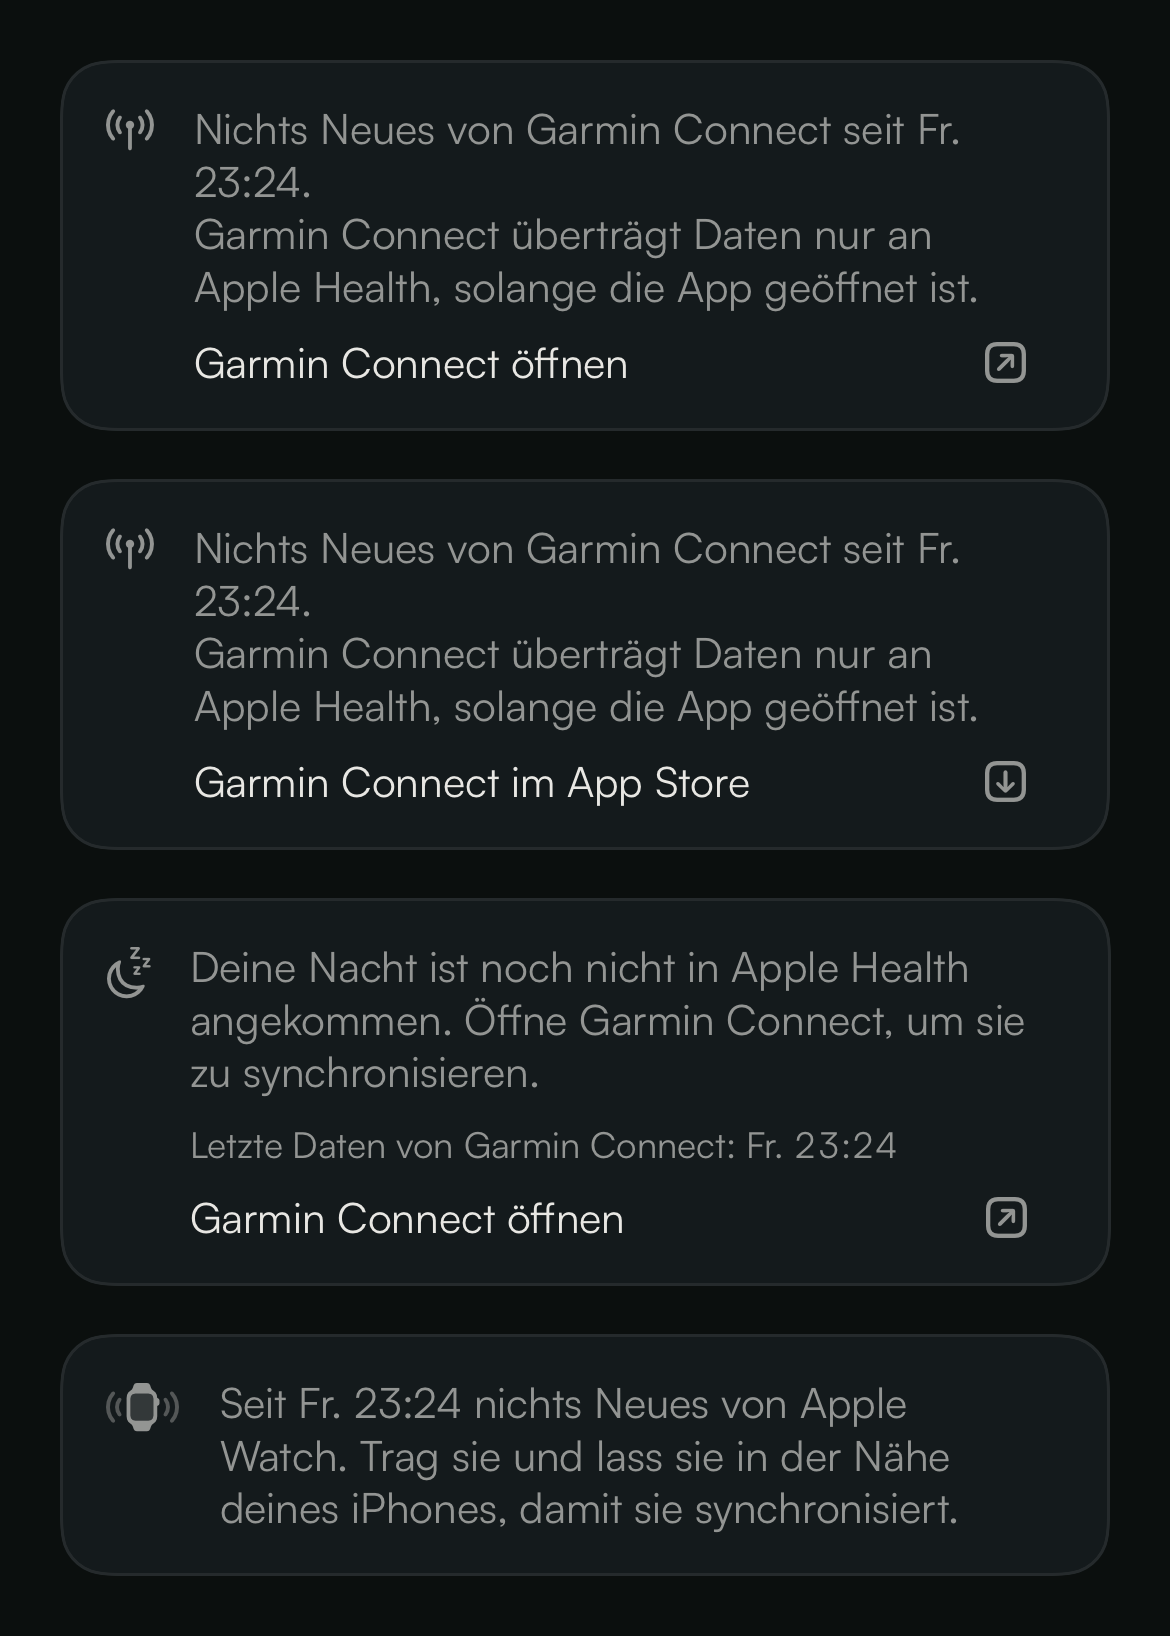
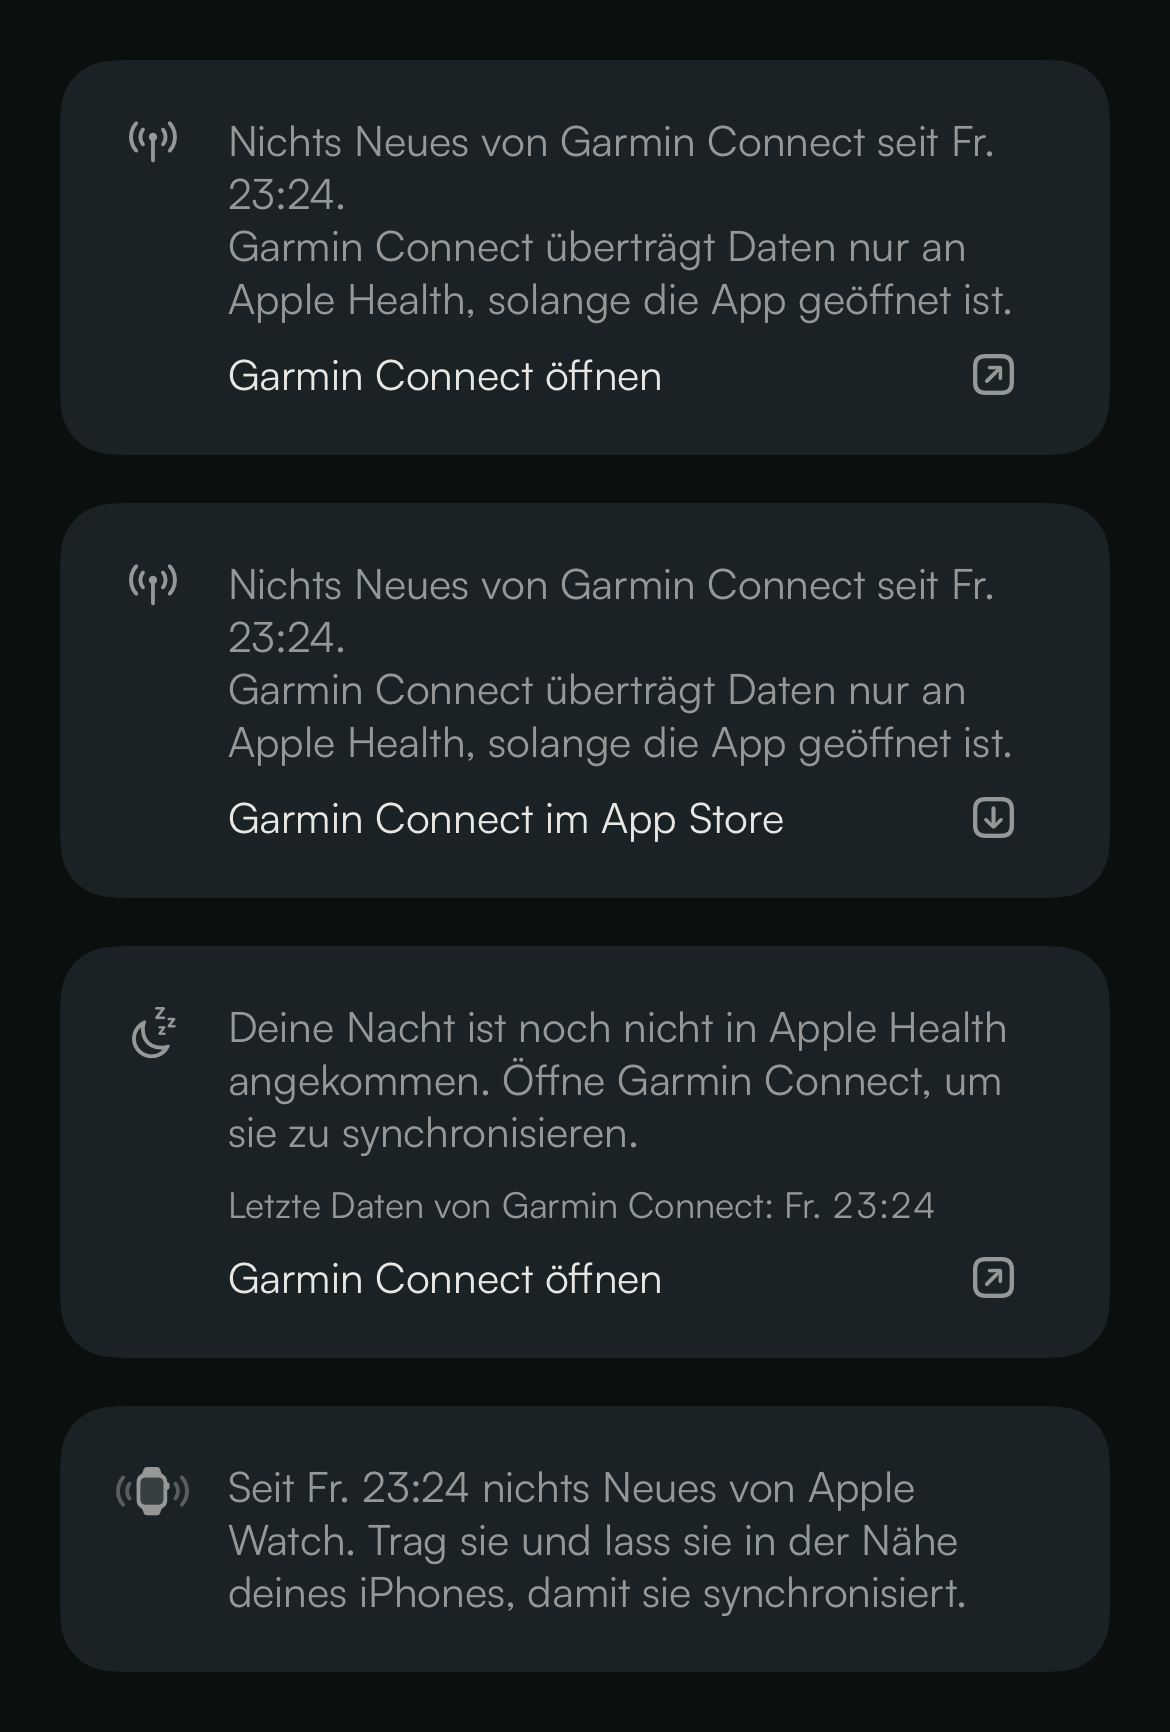
today: the hint card's fallback, chrome and VoiceOver checks (review round 1)
- WatchSyncHint.Action.fallback(accepted:) is the pure "open failed -> store page" rule
  (the view only calls it), unit-tested in both branches; Action.opensApp replaces
  WatchSyncHint.opensApp, which only tests used.
- Pin: every tracker with a scheme has a pinned store page (storeIDs).
- Card chrome as design.md D3.2 (Card's surface, cardRadius, cardPadding, no hairline);
  a fixed, scaled icon column so the text doesn't shift with the glyph.
- The card is rebuilt on each return to the foreground, so canOpenURL is asked again.
- "Leaves RYFT." / "Verlässt RYFT." with a full stop.
- UI tests: the quiet hint (watch scenario) and the night hint each have exactly one
  action button with the store label, and the sentence is static text, not a button.
- A test no longer depends on the host's language (en_US). Shots re-rendered.

diff --git a/Ryft/Features/Today/TodayView.swift b/Ryft/Features/Today/TodayView.swift
@@ -724,14 +724,21 @@ struct WatchSyncHintCard: View {
     @Environment(\.openURL) private var openURL
     @Environment(\.appInstalled) private var appInstalled
     @Environment(\.locale) private var locale
+    @Environment(\.scenePhase) private var scenePhase
     /// 15 pt at the default size, growing with the callout text (as `InlineMessage`'s icon).
     @ScaledMetric(relativeTo: .callout) private var iconSize: CGFloat = 15
+    /// The leading glyph's column: as wide as the widest glyph (the watch with its waves), so the text starts at the same
+    /// place whichever glyph the card shows.
+    @ScaledMetric(relativeTo: .callout) private var iconColumn: CGFloat = 26
+    /// Bumped on each return to the foreground: the card is built again and asks `canOpenURL` again (the user may have
+    /// installed or removed the app meanwhile, often in the App Store page this card opened).
+    @State private var foregrounds = 0
 
     private var identifier: String { hint.isNight ? "today.nightHint" : "today.watchHint" }
 
     var body: some View {
         TimelineView(.periodic(from: .now, by: 60)) { context in
-            // Asked on each render: the app may have been installed or removed since.
+            // Asked on every build of the card (each minute, and each return to the foreground below), never cached.
             if showsAction, let action = hint.action(canOpen: { appInstalled($0) }) {
                 Button { perform(action) } label: { card(now: context.date, action: action) }
                     .buttonStyle(PressableButtonStyle())
@@ -742,6 +749,10 @@ struct WatchSyncHintCard: View {
                 card(now: context.date, action: nil)
             }
         }
+        .id(foregrounds)
+        .onChange(of: scenePhase) { _, phase in
+            if phase == .active { foregrounds &+= 1 }
+        }
         .accessibilityElement(children: .contain)
         .accessibilityIdentifier(identifier)
     }
@@ -751,6 +762,7 @@ struct WatchSyncHintCard: View {
             Image(systemName: hint.systemImage)
                 .font(.system(size: iconSize, weight: .medium))
                 .foregroundStyle(Theme.textSecondary)
+                .frame(width: iconColumn)
                 .padding(.top, 1)
                 .accessibilityHidden(true)
             VStack(alignment: .leading, spacing: 8) {
@@ -773,21 +785,19 @@ struct WatchSyncHintCard: View {
             }
             Spacer(minLength: 0)
         }
-        .padding(14)
+        // `Card`'s surface (design.md §D3.2): no hairline, the surface is the edge.
+        .padding(Theme.Metrics.cardPadding)
         .frame(maxWidth: .infinity, minHeight: 44, alignment: .leading)
-        .background(Theme.surface.opacity(0.6), in: RoundedRectangle(cornerRadius: Theme.Metrics.tileRadius, style: .continuous))
-        .overlay(RoundedRectangle(cornerRadius: Theme.Metrics.tileRadius, style: .continuous)
-            .strokeBorder(Theme.separator, lineWidth: Theme.Metrics.hairline))
-        .contentShape(RoundedRectangle(cornerRadius: Theme.Metrics.tileRadius, style: .continuous))
+        .background(Theme.surface, in: RoundedRectangle(cornerRadius: Theme.Metrics.cardRadius, style: .continuous))
+        .contentShape(RoundedRectangle(cornerRadius: Theme.Metrics.cardRadius, style: .continuous))
     }
 
     /// What VoiceOver reads when the card is a button: the sentence with its age (static text), then the action.
     private func spoken(now: Date, action: WatchSyncHint.Action) -> some View {
-        let opensApp: Bool = { if case .openApp = action { return true } else { return false } }()
-        return VStack {
+        VStack {
             Text(verbatim: [hint.text(now: now, locale: locale), hint.caption(locale: locale)].compactMap { $0 }.joined(separator: "\n"))
             Button { perform(action) } label: { Text(verbatim: hint.title(action)) }
-                .accessibilityHint(opensApp ? Text("Leaves RYFT") : Text("Opens the App Store."))
+                .accessibilityHint(action.opensApp ? Text("Leaves RYFT.") : Text("Opens the App Store."))
                 .accessibilityIdentifier("\(identifier).action")
         }
     }
@@ -796,29 +806,28 @@ struct WatchSyncHintCard: View {
     /// destinations don't look the same. At AX sizes the title wraps and the glyph stays on its first line.
     private func verbRow(_ action: WatchSyncHint.Action) -> some View {
         let title = hint.title(action)
-        let opensApp: Bool = { if case .openApp = action { return true } else { return false } }()
         return HStack(alignment: .firstTextBaseline, spacing: 8) {
             Text(verbatim: title)
                 .font(.ryft(.callout))
                 .foregroundStyle(Theme.textPrimary)
                 .fixedSize(horizontal: false, vertical: true)
             Spacer(minLength: 0)
-            Image(systemName: opensApp ? "arrow.up.forward.app" : "arrow.down.app")
+            Image(systemName: action.opensApp ? "arrow.up.forward.app" : "arrow.down.app")
                 .font(.system(size: iconSize, weight: .medium))
                 .foregroundStyle(Theme.textSecondary)
                 .accessibilityHidden(true)
         }
     }
 
-    /// The app, and its store page if it doesn't open after all (no error: the page shows Open or Get).
+    /// The app, and its store page if it doesn't open after all (`Action.fallback(accepted:)`; no error: the page shows
+    /// Open or Get). Nothing is logged: whether the app opened says whether it's installed (ADR 0012, Privacy).
     private func perform(_ action: WatchSyncHint.Action) {
         switch action {
         case .store(let url):
             openURL(url)
-        case .openApp(let url, let fallback):
-            // Nothing is logged: whether the app opened says whether it's installed (ADR 0012, Privacy).
+        case .openApp(let url, _):
             openURL(url) { accepted in
-                if !accepted, let fallback { openURL(fallback) }
+                if let store = action.fallback(accepted: accepted) { openURL(store) }
             }
         }
     }

diff --git a/RyftUITests/TodayStatesUITests.swift b/RyftUITests/TodayStatesUITests.swift
@@ -78,9 +78,7 @@ final class TodayStatesUITests: XCTestCase {
             "Your night hasn't reached Apple Health yet. Open Garmin Connect to sync it.")).firstMatch
         XCTAssertTrue(sentence.exists, "the sentence and the data's age")
         // Garmin Connect isn't installed on the simulator: canOpenURL says no, so the App Store page.
-        let store = app.buttons["today.nightHint.action"]
-        XCTAssertTrue(store.exists, "the App Store button")
-        XCTAssertEqual(store.label, "Garmin Connect in the App Store")
+        assertHintElements(app, "today.nightHint", sentence: sentence, action: "Garmin Connect in the App Store")
         XCTAssertFalse(app.staticTexts["Scoring your latest data"].exists)
         XCTAssertFalse(app.staticTexts["Scoring your night"].exists)
         XCTAssertFalse(app.staticTexts.containing(NSPredicate(format: "label CONTAINS 'Connect app'")).firstMatch.exists,
@@ -88,6 +86,36 @@ final class TodayStatesUITests: XCTestCase {
         XCTAssertFalse(app.descendants(matching: .any)["today.watchHint"].exists, "one hint, never both")
         XCTAssertFalse(app.staticTexts["Last night hasn't reached RYFT yet."].exists, "the header says what the number is")
         XCTAssertTrue(app.staticTexts["Yesterday's readiness, until last night is scored."].exists)
+    }
+
+    /// A quiet Garmin Connect (14 h): the catalog's sentence on how it syncs replaces "Open the … app" (design.md §D3.4),
+    /// and VoiceOver reads the sentence, then the action (§D3.5).
+    @MainActor
+    func testQuietTrackerHintSaysHowItSyncsThenOffersTheApp() throws {
+        let app = launch("watch")
+        let hint = app.descendants(matching: .any)["today.watchHint"]
+        XCTAssertTrue(hint.waitForExistence(timeout: 15), "the quiet hint")
+        let sentence = app.staticTexts.containing(NSPredicate(
+            format: "label BEGINSWITH 'Nothing new from Garmin Connect since ' AND label CONTAINS %@",
+            "Garmin Connect passes data to Apple Health only while it's open.")).firstMatch
+        XCTAssertTrue(sentence.exists, "the sentence with the catalog's sync sentence")
+        XCTAssertFalse(app.staticTexts.containing(NSPredicate(format: "label CONTAINS 'Open the Garmin Connect app'"))
+                        .firstMatch.exists, "the shipped tail is replaced")
+        // Not installed on the simulator: the App Store page. "Open Garmin Connect" needs the app (a device check).
+        assertHintElements(app, "today.watchHint", sentence: sentence, action: "Garmin Connect in the App Store")
+    }
+
+    /// Two VoiceOver elements: the sentence as static text, never a button; then exactly one button, the action.
+    private func assertHintElements(_ app: XCUIApplication, _ id: String, sentence: XCUIElement, action label: String,
+                                    file: StaticString = #filePath, line: UInt = #line) {
+        let action = app.buttons.matching(identifier: "\(id).action")
+        XCTAssertEqual(action.count, 1, "one action", file: file, line: line)
+        XCTAssertEqual(action.firstMatch.elementType, .button, file: file, line: line)
+        XCTAssertEqual(action.firstMatch.label, label, file: file, line: line)
+        XCTAssertEqual(sentence.elementType, .staticText, file: file, line: line)
+        XCTAssertNotEqual(sentence.identifier, "\(id).action", "the sentence isn't the action", file: file, line: line)
+        XCTAssertFalse(app.buttons.containing(NSPredicate(format: "label == %@", sentence.label)).firstMatch.exists,
+                       "the sentence isn't a button", file: file, line: line)
     }
 
     /// Ten minutes against an estimate of 20 s: "Taking longer than usual · Details", the gauge static, and the

diff --git a/RyftTests/ViewModelTests.swift b/RyftTests/ViewModelTests.swift
@@ -591,7 +591,8 @@ struct TodayNightAndScoringTests {
         #expect(gap == NightGap(name: "Garmin Connect", kind: .app, storeURL: garminStore, newest: at(23, 24, daysAgo: 1),
                                 appURL: URL(string: "garminconnect://")))
         let hint = try #require(TodayStates.watchHint(f))
-        #expect(hint.isNight && hint.source == "Garmin Connect" && hint.opensApp && hint.storeURL == garminStore)
+        #expect(hint.isNight && hint.source == "Garmin Connect" && hint.storeURL == garminStore)
+        #expect(hint.action { _ in false } == garminStore.map(WatchSyncHint.Action.store))
         #expect(hint.systemImage == "moon.zzz")
         #expect(hint.text(now: f.now)
                 == String(localized: "Your night hasn't reached Apple Health yet. Open \("Garmin Connect") to sync it."))
@@ -639,7 +640,7 @@ struct TodayNightAndScoringTests {
         let gap = try #require(TodayStates.nightGap(f))
         #expect(gap.kind == .appleDevice && gap.name == "Tim's Apple Watch" && gap.storeURL == nil)
         let hint = try #require(TodayStates.watchHint(f))
-        #expect(!hint.opensApp)
+        #expect(hint.action { _ in true } == nil)
         #expect(hint.text(now: f.now) == String(
             localized: "Your night hasn't reached Apple Health yet. Keep your Apple Watch near your iPhone so it syncs."))
         // A watch worn this morning: its heart rate is the evidence.
@@ -649,7 +650,7 @@ struct TodayNightAndScoringTests {
     @Test func anUnknownSourceKeepsItsNameAndGetsNoButton() throws {
         let diary = SourceFreshness(source: "Sleep Diary", bundleID: "com.example.sleep", newest: at(23, 0, daysAgo: 1))
         let hint = try #require(TodayStates.watchHint(facts { $0.freshness = [diary] }))
-        #expect(hint.isNight && hint.source == "Sleep Diary" && !hint.opensApp)
+        #expect(hint.isNight && hint.source == "Sleep Diary" && hint.action { _ in true } == nil)
         #expect(hint.text(now: at(9, 12)) == String(localized: "Your night hasn't reached Apple Health yet."))
     }
 
@@ -689,7 +690,7 @@ struct TodayNightAndScoringTests {
         var plain = f
         plain.sourceApps = [:]
         #expect(TodayStates.watchHint(plain)?.source == "Connect")
-        #expect(TodayStates.watchHint(plain)?.opensApp == false)
+        #expect(TodayStates.watchHint(plain)?.action { _ in true } == nil)
     }
 
     // MARK: the line
@@ -921,7 +922,7 @@ struct TodayNightAndScoringTests {
         #expect(TodayStates.watchHint(facts(now: afternoon) { $0.freshness = [connect(at(1, 0))]; $0.online = false }) == nil)
         // The Apple Watch keeps its own glyph.
         let watchHint = try #require(TodayStates.watchHint(facts(now: afternoon) { $0.freshness = [watch(at(1, 0))] }))
-        #expect(watchHint.systemImage == "applewatch.radiowaves.left.and.right" && !watchHint.opensApp)
+        #expect(watchHint.systemImage == "applewatch.radiowaves.left.and.right" && watchHint.action { _ in true } == nil)
     }
 
     @Test func aWaitThatEndsEarlyForgetsItsStart() {

diff --git a/RyftTests/TrackerAppLinkTests.swift b/RyftTests/TrackerAppLinkTests.swift
@@ -45,6 +45,8 @@ struct TrackerAppLinkTests {
             #expect(TrackerAppLink.isPlainScheme(scheme), "\(id): \(scheme)")
             let tracker = try #require(TrackerCatalog.bundled.tracker(id), "\(id) isn't in the catalog")
             #expect(tracker.integration == .vendorApp && tracker.appScheme == scheme, "\(id)")
+            // The fallback when the app doesn't open: every tracker with a scheme has a pinned store page (`storeIDs`).
+            #expect(tracker.appStoreID != nil && tracker.appStoreURL != nil, "\(id) has a scheme but no storeIDs entry")
         }
     }
 
@@ -88,6 +90,20 @@ struct TrackerAppLinkTests {
         }
     }
 
+    /// `open` reports whether the app opened: the store page only when it didn't, never after the store page itself.
+    @Test func theStorePageIsTheFallbackOnlyWhenTheAppDidNotOpen() throws {
+        let app = try #require(Self.app), store = try #require(Self.store)
+        let open = WatchSyncHint.Action.openApp(app, fallback: store)
+        #expect(open.fallback(accepted: false) == store)
+        #expect(open.fallback(accepted: true) == nil)
+        // No store page known: nothing to fall back to, and no error.
+        #expect(WatchSyncHint.Action.openApp(app, fallback: nil).fallback(accepted: false) == nil)
+        // The store page itself has no fallback, whatever `open` says.
+        #expect(WatchSyncHint.Action.store(store).fallback(accepted: false) == nil)
+        #expect(WatchSyncHint.Action.store(store).fallback(accepted: true) == nil)
+        #expect(open.opensApp && !WatchSyncHint.Action.store(store).opensApp)
+    }
+
     @Test func notInstalledOrNoSchemeKeepsTheStorePage() throws {
         let store = try #require(Self.store)
         #expect(hint().action { _ in false } == .store(store))
@@ -118,6 +134,6 @@ struct TrackerAppLinkTests {
         // An Apple device keeps its own sentence, whatever it carries.
         var watch = hint(isApp: false)
         watch.sync = sync
-        #expect(!watch.text(now: Self.since).contains(sync.en))
+        #expect(!watch.text(now: Self.since, locale: Locale(identifier: "en_US")).contains(sync.en))
     }
 }

diff --git a/Ryft/Features/Today/TodayViewModel.swift b/Ryft/Features/Today/TodayViewModel.swift
@@ -761,6 +761,16 @@ struct WatchSyncHint: Equatable {
         case openApp(URL, fallback: URL?)
         /// "Garmin Connect in the App Store".
         case store(URL)
+
+        /// The app itself, not its store page ("Open …", `arrow.up.forward.app`, "Leaves RYFT.").
+        var opensApp: Bool { if case .openApp = self { return true } else { return false } }
+
+        /// Where to go once `open` has answered: the store page when the app didn't open; nothing when it did, or for the
+        /// store page itself (no error either way, design.md §D3.3 state 2).
+        func fallback(accepted: Bool) -> URL? {
+            guard !accepted, case .openApp(_, let store) = self else { return nil }
+            return store
+        }
     }
 
     var isNight: Bool { if case .night = kind { return true } else { return false } }
@@ -798,9 +808,6 @@ struct WatchSyncHint: Equatable {
     static func dayAndTime(_ date: Date, locale: Locale) -> String {
         date.formatted(Date.FormatStyle(locale: locale).weekday(.abbreviated).hour().minute())
     }
-
-    /// The App Store page button: only an app's, and only with a store page.
-    var opensApp: Bool { isApp && storeURL != nil }
 
     /// "Garmin Connect in the App Store": true whether or not the app is installed (the page shows Open).
     var storeTitle: String { String(localized: "\(source) in the App Store") }
